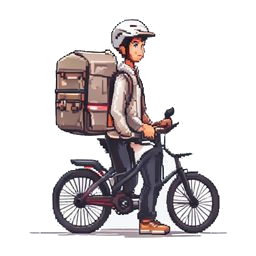
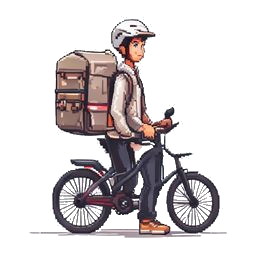
fix(assets): clear enclosed white background islands from courier sprite
The delivery cyclist sprite (enemy_civilian.png) kept opaque white pixels
in background regions enclosed by the subject (bike frame triangle,
arm/torso gap, fork/wheel gaps): the corner flood-fill in
cutout-enemies.mjs can only reach border-connected background. Add an
enclosed-island pass that keys background-coloured components the edge
flood cannot reach while protecting legitimate near-white subject pixels
(helmet, jacket), apply it in place to the committed sprite
(939 -> 149 visible pure-white px), harden the generator prompt, wire the
pass into the gen-sprites CI flow, and record the decision as ADR-0013.

Claude-Session: https://claude.ai/code/session_01Mq1dTwQffHn5qG4doLyjiF

diff --git a/docs/adr/0013-enclosed-island-cutout-pass.md b/docs/adr/0013-enclosed-island-cutout-pass.md
@@ -1,0 +1,90 @@
+# 0013 — Enclosed-island pass in the shared sprite keyer
+
+- **Status:** Accepted
+- **Date:** 2026-07-12
+
+## Context
+
+The delivery courier sprite (`public/assets/enemy_civilian.png`, the "livreur en
+vélo") rendered with white speckle inside the silhouette: the bike-frame
+triangle, the arm/torso gap and the wheel interiors stayed opaque white instead
+of transparent.
+
+Root cause: `scripts/cutout-enemies.mjs` — the single shared keyer, also used by
+`gen-vehicle-sprites.mjs` via `import { cutout }` — cleared the background with a
+4-corner flood-fill only. A flood seeded from the image edges can reach ground
+CONNECTED to an edge, but never ground fully ENCLOSED by the subject. Those
+land-locked enclaves survived as blobs.
+
+Two traps constrained the fix:
+
+1. A global white colour key was out — the courier's helmet and jacket are
+   legitimately near-white and would be eaten.
+2. `gen-enemy-types.mjs` prompts a **pure black** ground (FLUX ignored it and
+   returned white for this asset, but future regens may honour it), so a
+   white-hardcoded pass would silently miss enclaves on a black-ground regen.
+
+A standalone `retouch-sprites.mjs` was considered and rejected: it would fork the
+keying logic and rot, the exact anti-pattern ADR-0011 warns against. The defect
+is the general weakness of a corner flood, so it belongs in the keyer that owns
+the flood.
+
+## Decision
+
+Add an **enclosed-island pass** to `scripts/cutout-enemies.mjs`, running after
+the edge flood-fill, keyed to the same corner-sampled ground colour (never a
+hardcoded colour). It labels connected components of a loose ground-colour mask
+and clears a component only when **both** guards hold:
+
+- **Topology (principal, ground-agnostic guard):** the component touches neither
+  the image border nor an already-transparent pixel. A pale-but-legitimate
+  subject region (helmet, jacket) reaches the exterior — directly or bridged
+  through the loose mask — so it reads `touchTransparent` and is spared; only
+  truly land-locked ground qualifies.
+- **Colour (keyed to the sampled ground):** a wide `LOOSE_BAND` builds the
+  connectivity mask (so dark subject detail — frame tubes, spokes, arms — breaks
+  enclaves off into isolated components), and a tight `TIGHT_BAND` on the
+  component mean clears only components that really are the flat ground.
+
+Because it is corner-adaptive, the pass keys white (this asset), black (a future
+prompted regen) and the vehicles' magenta alike.
+
+Ground sampling now ignores transparent corners. On a raw generation all four
+corners are opaque ground → fully corner-adaptive. On an **already-keyed**
+committed sprite the PNG encoder has zeroed the RGB under every transparent
+pixel, so the corners report `(0,0,0)` and are skipped; when none survive the
+reference falls back to white (every committed sprite in this project was
+generated on a light ground). The live CI path never hits this fallback — it
+keys raw generations whose corners are opaque — so a future black-ground regen
+stays correctly corner-adaptive.
+
+The pass is purely additive (it can only clear pixels the flood should have
+reached), so alpha stays binary and the operation is idempotent: a re-run finds
+the enclaves already transparent and clears 0 px. Running
+`node scripts/cutout-enemies.mjs <path>` (a new optional single-file CLI arg) IS
+the deterministic in-place retouch — no separate script.
+
+## Consequences
+
+- `enemy_civilian.png` retouched in place: opaque 22215 → 19580 (−2635, the
+  enclosed-island area), visible pure-white 939 → 149 (the residual is the
+  legitimate helmet/jacket highlight), semi-transparent 0 → 0 (binary alpha
+  preserved), edge fringe 22 → 22 (silhouette border untouched). Re-run is
+  byte-identical.
+- Every enemy AND vehicle sprite inherits the hardened keyer through the shared
+  `cutout` import, at root cause — a future CI cutout/reprocess cannot
+  reintroduce enclosed islands.
+- **Scope limit (deliberate):** only `enemy_civilian.png` is rewritten in this
+  change. An AC6 sweep showed the pre-keyed **white-fallback** retouch is unsafe
+  on other committed sprites — it would punch the white truck body
+  (`vehicles/truck.png`) and the muzzle-flash highlight (`enemy_biker_shooting.png`),
+  which are legitimate bright subject, not enclosed ground. Those sprites are
+  left untouched; their light regions are subject, not the enclosed-island
+  defect. The live CI path is unaffected for them (a raw truck generation has
+  magenta corners, so the tight band keys magenta enclaves, never the white
+  body). Broadening the retouch to any other sprite is a separate, per-sprite
+  visually-gated story.
+- The band thresholds (`LOOSE_BAND=55`, `TIGHT_BAND=20`) are calibrated on this
+  asset and documented at the constants; a perfectly-neutral, fully-enclosed
+  legitimate subject region would be a theoretical risk, but the topology guard
+  bounds it and none exists in the current set.

diff --git a/docs/agent-handoffs.md b/docs/agent-handoffs.md
@@ -908,3 +908,17 @@ render-side data and never enters`GameState`. **Stock materials only** (`MeshBas
     and assert the gate red on it — logging as a nice-to-have, NOT reopening this story.
     Scope guard holds: fidelity fix to an approved extension (ADR-0011) + pipeline hardening, no
     new gameplay verb/input/rule, passes PROJECT_GUIDELINES. Story **DONE**. (John / PM)
+
+---
+
+## 2026-07-12 — dev-tooling-assets — Enclosed-island cutout pass (courier sprite white-speckle fix)
+
+- **Start.** Task from senior-architect: land generic enclosed-background-island handling in the SHARED keyer `scripts/cutout-enemies.mjs` (not a standalone retouch script), retouch `public/assets/enemy_civilian.png` in place, sweep the rest.
+- **Finish — DONE.** Lane: `scripts/cutout-enemies.mjs`, `public/assets/enemy_civilian.png`, `docs/adr/0013-*`, `.github/workflows/gen-sprites.yml` (comment only), this log.
+  - **Root cause:** the 4-corner flood in `cutout-enemies.mjs` can never reach ground walled in by the subject (bike-frame triangle, wheel interiors, arm/torso gap) → those enclaves stayed opaque white.
+  - **Fix:** added an additive enclosed-island pass after the flood — connected-component labelling of a loose ground-colour mask, clearing a component only when it is topologically enclosed (touches neither border nor an already-transparent pixel) AND its mean is within the tight ground band. Corner-adaptive (keyed to sampled corners), so it works for white/black/magenta grounds — NOT a hardcoded white key. Ground sampling ignores transparent (pre-keyed) corners with a documented light-ground fallback for in-place retouch of committed sprites.
+  - **In-place retouch:** new optional single-file CLI arg — `node scripts/cutout-enemies.mjs <path>` IS the deterministic retouch. Idempotent: re-run is byte-identical (0 px cleared).
+  - **Metrics (enemy_civilian.png):** opaque 22215 → 19580 (−2635, within the −900..−3000 window); visible pureWhite 939 → 149 (residual = legitimate helmet/jacket highlight); nearWhite 1774 → 360; semi-transparent 0 → 0 (binary alpha held); whiteFringeOnEdge 22 → 22 (silhouette border unchanged). Magenta composite (vis.mjs) confirms frame triangle + wheel interiors + arm/torso gap transparent with spokes/rims preserved; helmet, jacket, backpack, limbs, tubes intact — no punched holes.
+  - **AC6 sweep:** only `enemy_civilian.png` has the genuine defect. `vehicles/truck.png` (−3237) and `enemy_biker_shooting.png` (−474) would punch legitimate bright subject (white truck body / muzzle-flash core) under the pre-keyed white fallback → left untouched, documented for a separate per-sprite gated story; `enemy_shooting_3.png` and the low-white sprites show ~0 delta. CI path is unaffected for vehicles (raw truck gen has magenta corners → tight band keys magenta only, never the white body).
+  - **Contract note to dev-r3f-render:** asset contract UNCHANGED — same path/size/name (`enemy_civilian.png`, 256×256 RGBA), only interior alpha corrected. No renderer change needed.
+  - **Verification:** yarn typecheck OK, yarn test 189/189 OK, yarn lint OK. No `src/**` changes. ADR-0013 added. (Amelia / dev-tooling-assets)

diff --git a/docs/adr/README.md b/docs/adr/README.md
@@ -62,3 +62,4 @@ the old one `Superseded by ADR-XXXX`.
 | [0010](./0010-art-direction-pipeline.md)               | Art-direction pipeline: gated prompts, seeded generation, CI gates                       | Accepted |
 | [0011](./0011-render-side-neon-rim.md)                 | Render-side emissive neon rim for vehicles (decouple from baked art)                     | Accepted |
 | [0012](./0012-optional-scripted-tutorial-stage.md)     | Optional scripted tutorial stage before Rue Belliard                                     | Accepted |
+| [0013](./0013-enclosed-island-cutout-pass.md)          | Enclosed-island pass in the shared sprite keyer                                          | Accepted |
